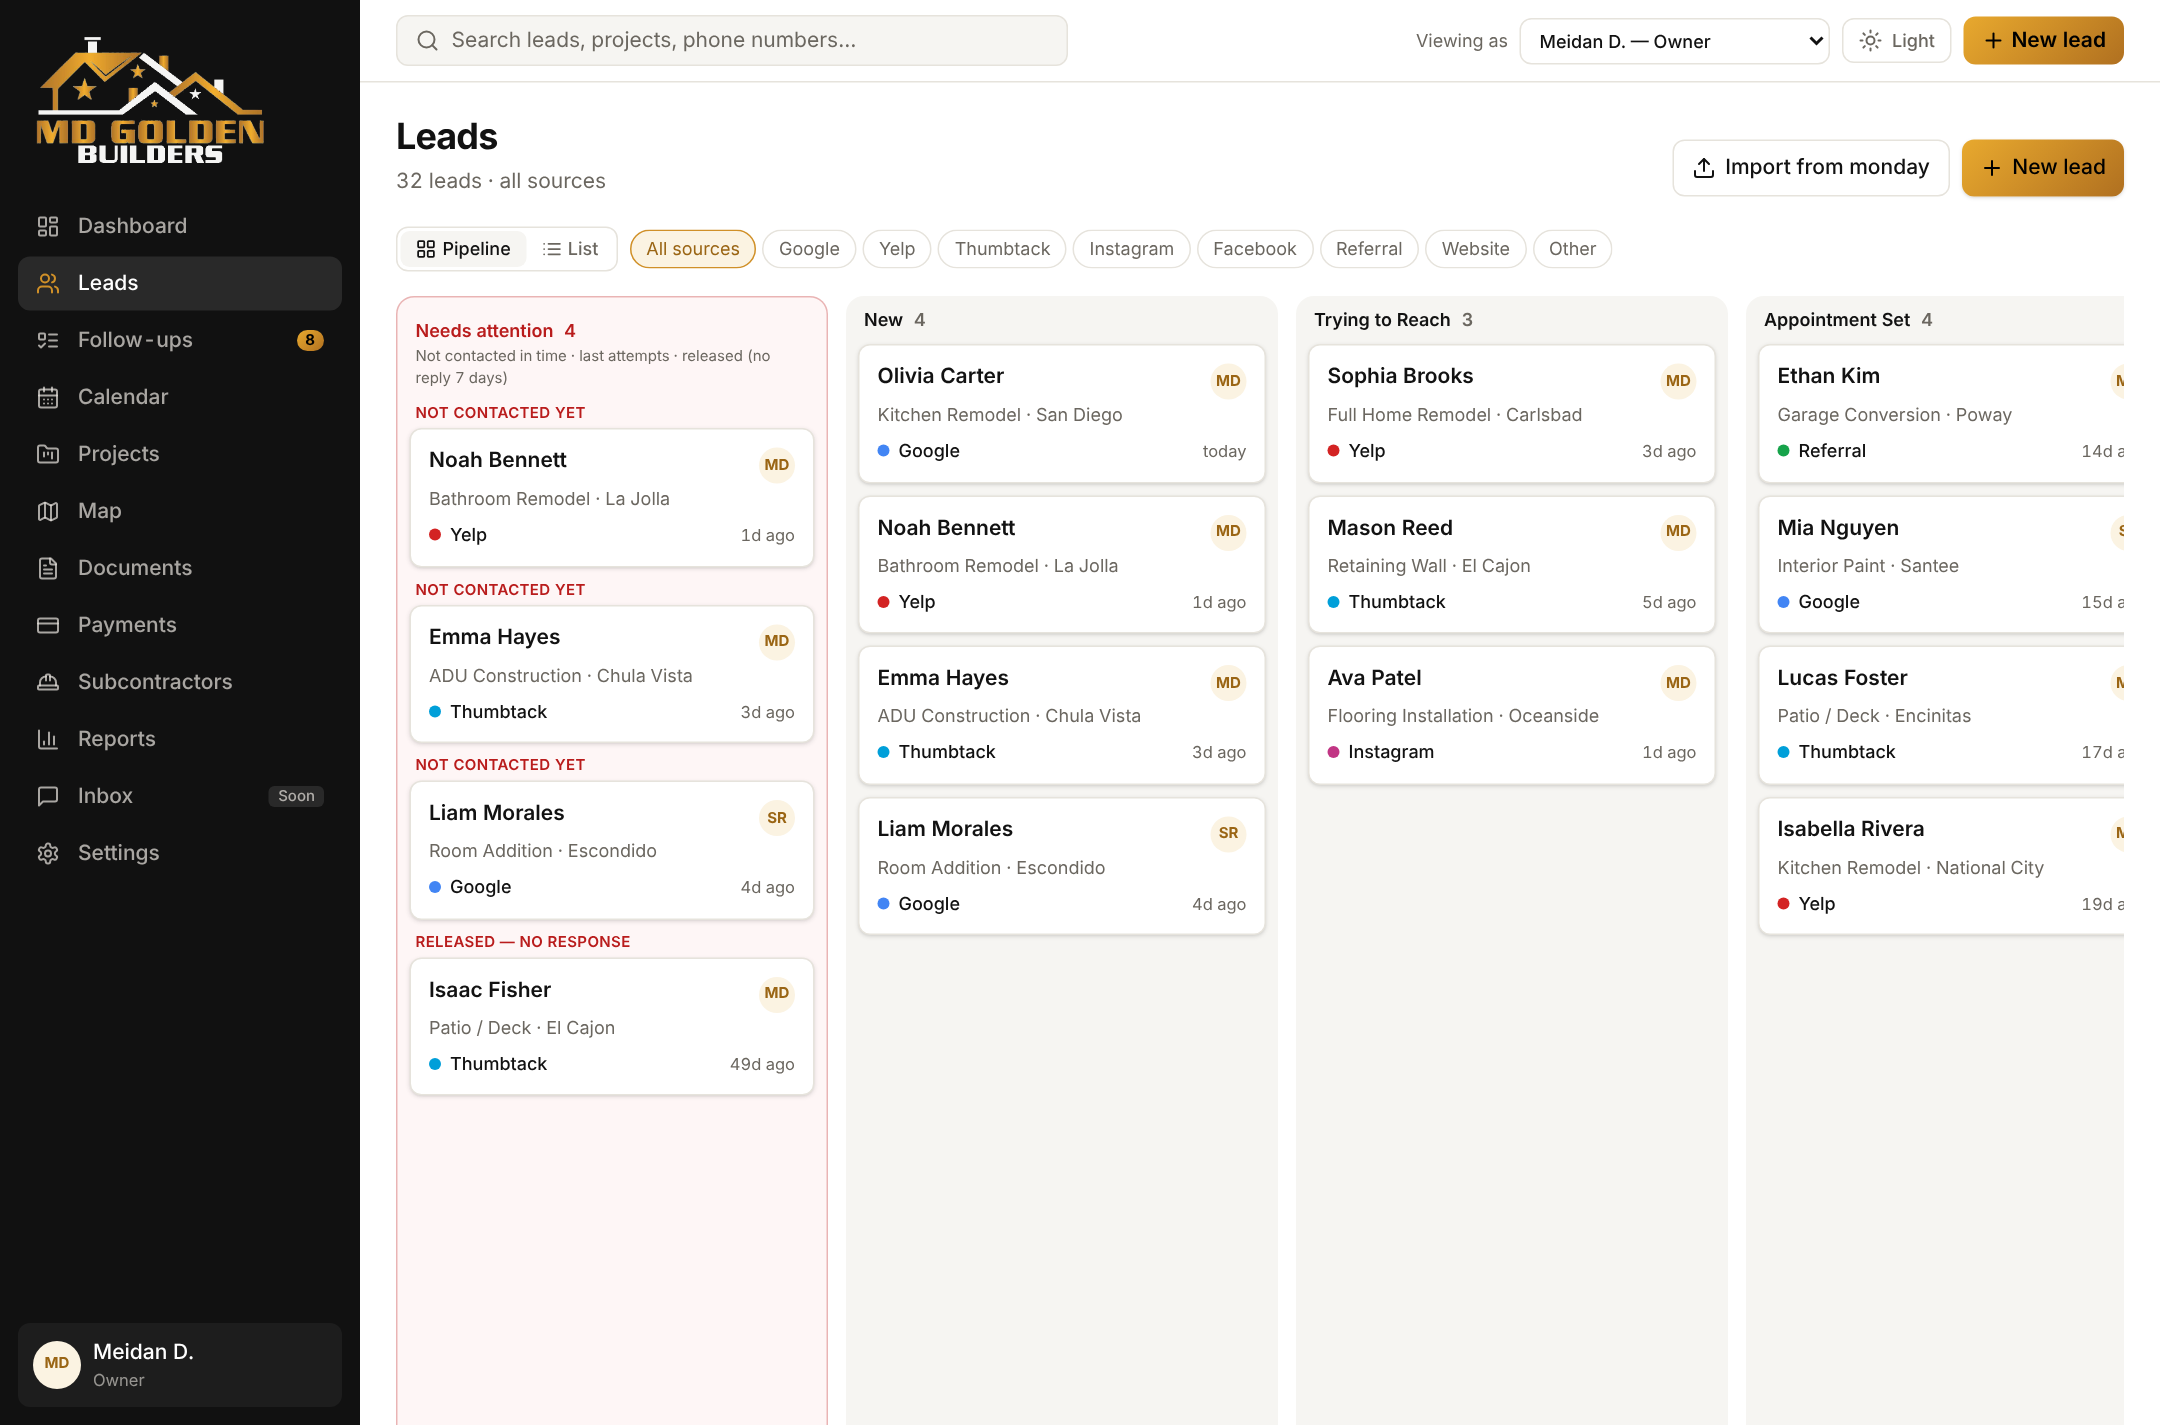
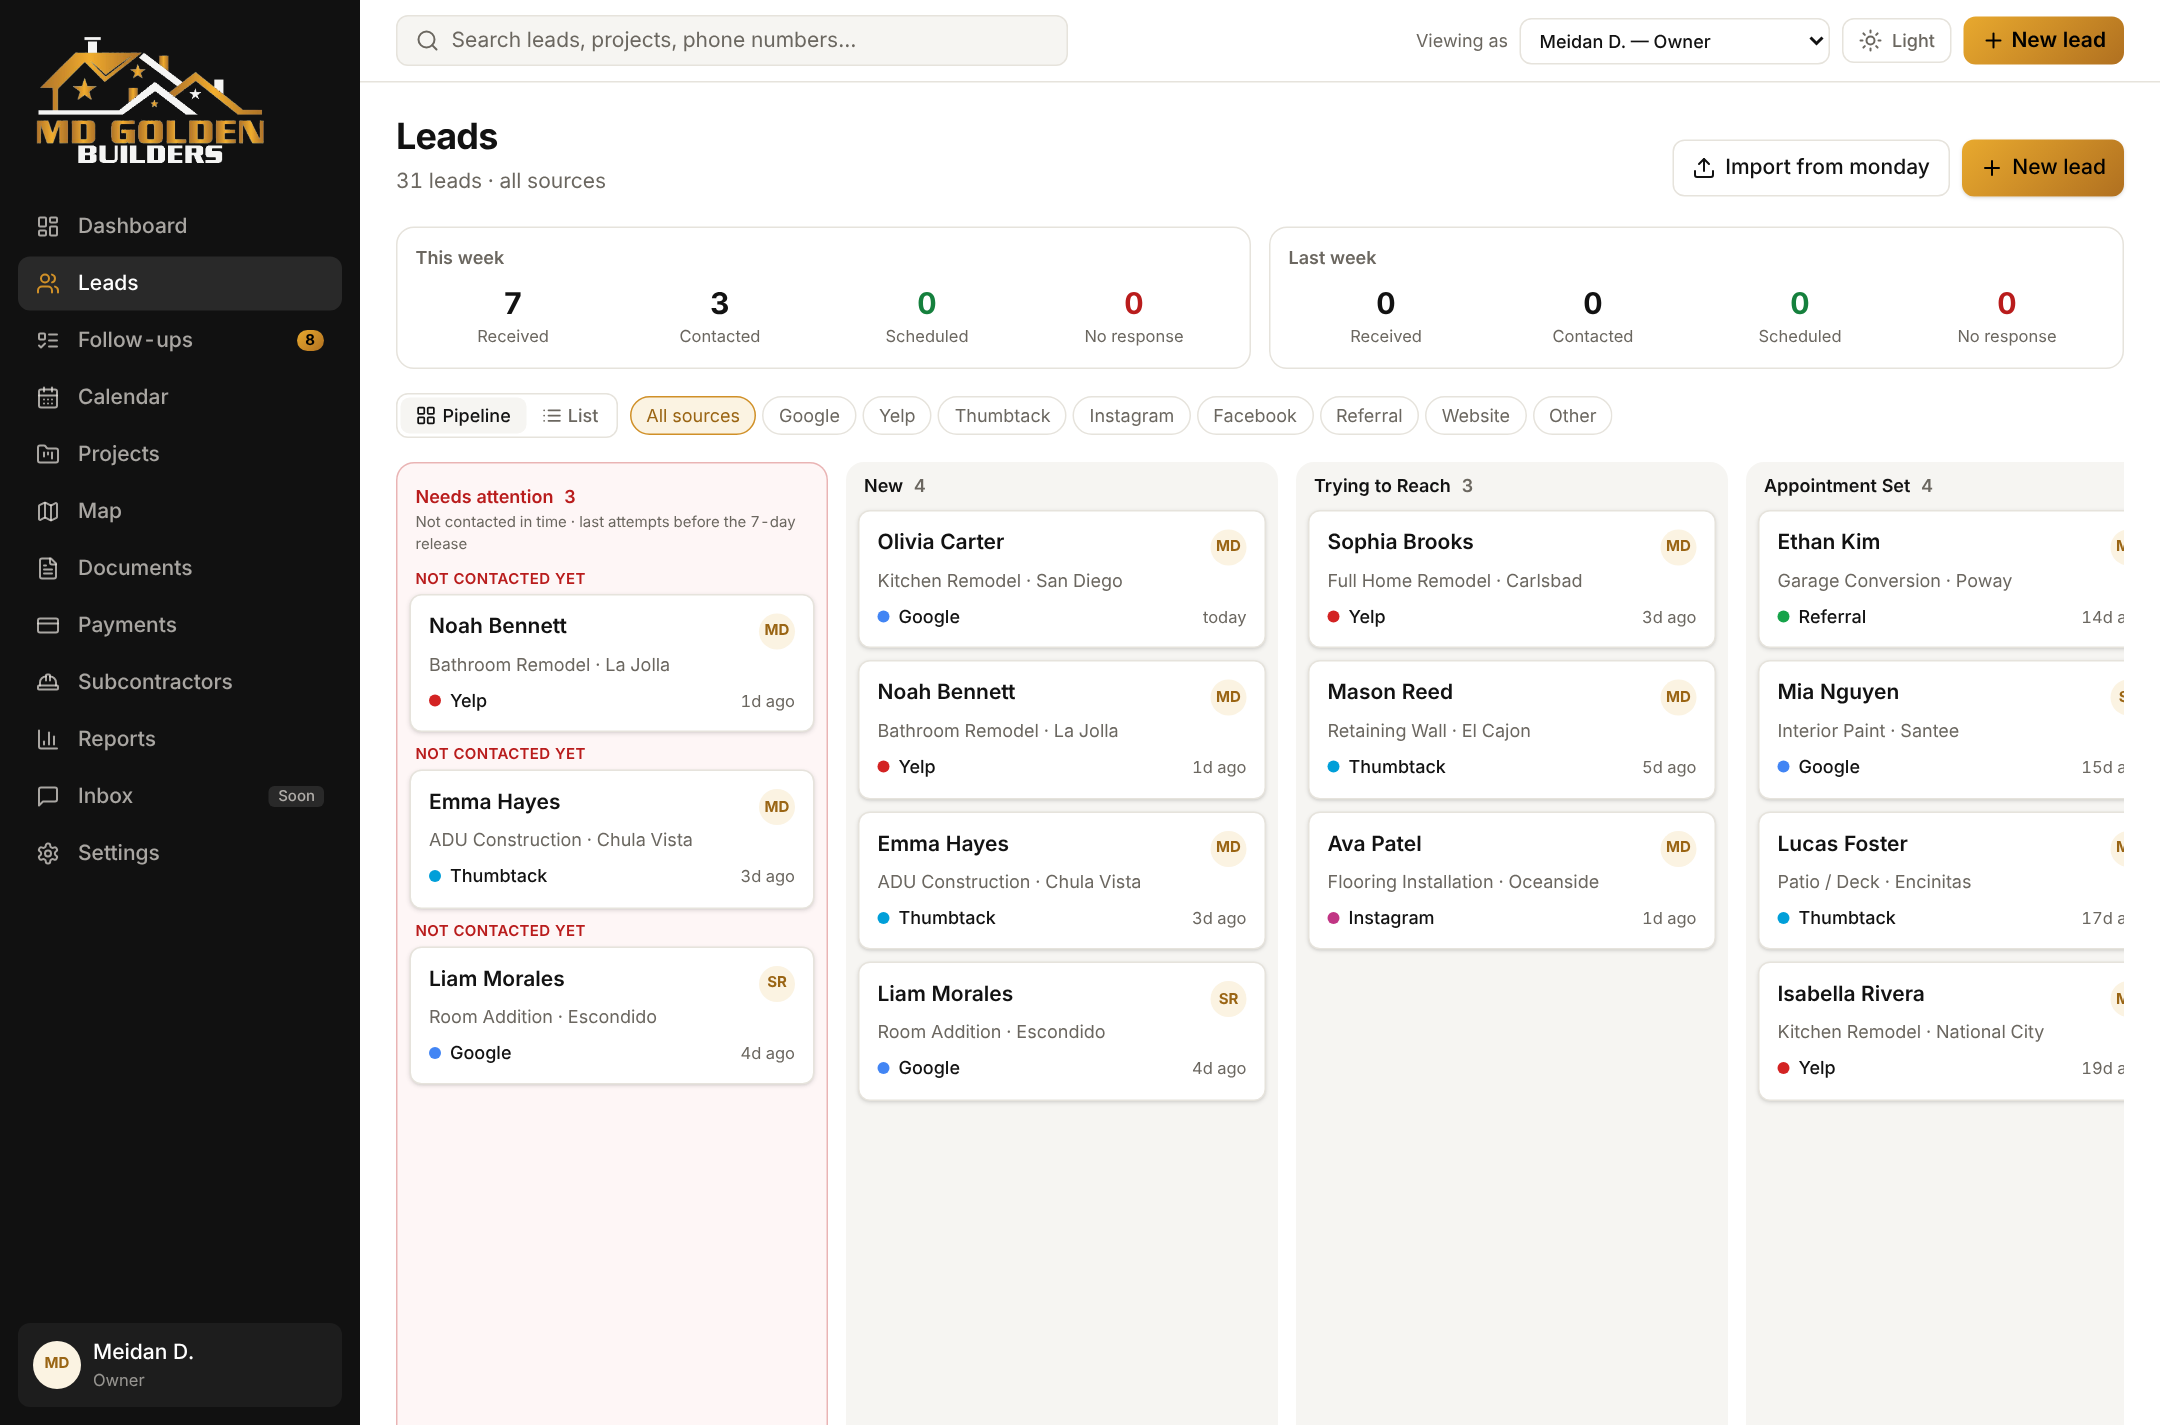
Weekly lead tracking; released no-response leads leave all working lists
Claude-Session: https://claude.ai/code/session_01FWP9vEZ3MdPGUBuhGCAjT9

diff --git a/src/app/(app)/leads/page.tsx b/src/app/(app)/leads/page.tsx
@@ -13,7 +13,9 @@ export default async function LeadsPage({ searchParams }: { searchParams: Promis
   const view = sp.view === "list" ? "list" : "board";
   const user = await currentUser();
   const showMoney = canSeeMoney(user);
-  let leads = await getLeads();
+  const allLeads = await getLeads();
+  // Released leads (no answer for a week) leave every working list — they only live in reports.
+  let leads = sp.stage ? allLeads : allLeads.filter((l) => l.stage !== "No Response");
   if (sp.source) leads = leads.filter((l) => l.source === sp.source);
   if (sp.stage) leads = leads.filter((l) => l.stage === sp.stage);
 
@@ -36,6 +38,8 @@ export default async function LeadsPage({ searchParams }: { searchParams: Promis
           </>
         }
       />
+
+      <WeekSummary leads={allLeads} />
 
       <div className="mb-4 flex flex-wrap items-center gap-2">
         <div className="inline-flex rounded-lg border border-border bg-card p-0.5">
@@ -147,24 +151,53 @@ function Table({ leads, showMoney, stage, q }: { leads: Lead[]; showMoney: boole
 /** Leads that need a human decision: not contacted in time, or released after 7 days of silence. */
 function NeedsAttention({ leads, showMoney }: { leads: Lead[]; showMoney: boolean }) {
   const items = leads.filter(
-    (l) => l.stage === "No Response" || (l.stage === "New" && -daysFrom(l.createdAt, TODAY) >= 1) || (l.stage === "Trying to Reach" && (l.attempts ?? 0) >= 4),
+    (l) => (l.stage === "New" && -daysFrom(l.createdAt, TODAY) >= 1) || (l.stage === "Trying to Reach" && (l.attempts ?? 0) >= 4),
   );
   return (
     <div className="flex w-72 shrink-0 flex-col rounded-xl border border-bad/30 bg-bad-soft/40 p-2">
       <div className="mb-2 px-1">
         <span className="text-xs font-semibold text-bad">Needs attention <span className="ml-1">{items.length}</span></span>
-        <div className="text-[10px] text-muted">Not contacted in time · last attempts · released (no reply 7 days)</div>
+        <div className="text-[10px] text-muted">Not contacted in time · last attempts before the 7-day release</div>
       </div>
       <div className="flex flex-col gap-2">
         {items.map((l) => (
           <div key={l.id}>
             <div className="mb-0.5 px-1 text-[10px] font-semibold uppercase tracking-wide text-bad">
-              {l.stage === "No Response" ? "Released — no response" : l.stage === "New" ? "Not contacted yet" : `Attempt ${l.attempts} of 5`}
+              {l.stage === "New" ? "Not contacted yet" : `Attempt ${l.attempts} of 5 — last chance`}
             </div>
             <LeadCard l={l} showMoney={showMoney} />
           </div>
         ))}
       </div>
+    </div>
+  );
+}
+
+/** This week's leads at a glance: lead tracking runs week by week. */
+function WeekSummary({ leads }: { leads: Lead[] }) {
+  const weekAgo = (n: number) => leads.filter((l) => { const d = -daysFrom(l.createdAt, TODAY); return d >= n * 7 && d < (n + 1) * 7; });
+  const weeks = [0, 1].map((n) => {
+    const ls = weekAgo(n);
+    return {
+      label: n === 0 ? "This week" : "Last week",
+      received: ls.length,
+      contacted: ls.filter((l) => l.stage !== "New").length,
+      scheduled: ls.filter((l) => !["New", "Trying to Reach", "No Response", "Not a Fit"].includes(l.stage)).length,
+      released: ls.filter((l) => l.stage === "No Response").length,
+    };
+  });
+  return (
+    <div className="mb-4 grid gap-3 md:grid-cols-2">
+      {weeks.map((w) => (
+        <div key={w.label} className="rounded-xl border border-border bg-card p-3">
+          <div className="mb-2 text-xs font-semibold text-muted">{w.label}</div>
+          <div className="grid grid-cols-4 gap-2 text-center">
+            {[["Received", w.received, ""], ["Contacted", w.contacted, ""], ["Scheduled", w.scheduled, "text-ok"], ["No response", w.released, "text-bad"]].map(([k, v, c]) => (
+              <div key={k as string}><div className={`text-xl font-bold ${c}`}>{v}</div><div className="text-[11px] text-muted">{k}</div></div>
+            ))}
+          </div>
+        </div>
+      ))}
     </div>
   );
 }

diff --git a/src/components/lead-parts.tsx b/src/components/lead-parts.tsx
@@ -14,19 +14,9 @@ export function LeadOutcome({ lead }: { lead: Lead }) {
 
   if (lead.stage === "No Response") {
     return (
-      <Card className="border-bad/40 p-4">
-        <div className="flex items-center justify-between gap-2">
-          <div>
-            <div className="text-sm font-semibold">No response after {RELEASE_AFTER_DAYS} days · {MAX_ATTEMPTS} attempts</div>
-            <div className="text-xs text-muted">Released from the active list — still counted as a received {lead.source} lead. If they reply, it comes back automatically.</div>
-          </div>
-          <Badge tone="bad">Needs a decision</Badge>
-        </div>
-        <div className="mt-3 flex flex-wrap gap-2">
-          <button className="rounded-lg border border-border px-3 py-1.5 text-xs font-medium">One last try (text)</button>
-          <button className="rounded-lg border border-border px-3 py-1.5 text-xs font-medium">Archive</button>
-          <button className="rounded-lg border border-border px-3 py-1.5 text-xs font-medium">Mark spam → LSA refund</button>
-        </div>
+      <Card className="p-4">
+        <div className="text-sm font-semibold">Released — no answer for {RELEASE_AFTER_DAYS} days ({MAX_ATTEMPTS} attempts)</div>
+        <div className="text-xs text-muted">Removed from all working lists so nobody keeps chasing it. Still counted as a received {lead.source} lead in reports. If the customer replies, it comes back automatically.</div>
       </Card>
     );
   }

diff --git a/docs/MASTER_PROMPT.md b/docs/MASTER_PROMPT.md
@@ -553,12 +553,13 @@ owner can switch a type to "send automatically" later. Every action logged and u
 - Stage "Trying to Reach" with an attempt tracker: Day 0 call+text → Day 1 → Day 2 → Day 4 →
   Day 7 (max 5 attempts). After every attempt one tap: **Scheduled · Still trying ·
   Not a fit · Spam/wrong #**.
-- **No reply in 7 days → auto-release to "No Response"**: off the active board, still
-  counted as a received lead for that source, shown in **Needs attention** for a final
-  decision (one last text / archive / mark spam). If the customer replies later it
-  reactivates automatically.
-- Board starts with a **Needs attention** column: not contacted in time, last attempts,
-  released.
+- **No reply in 7 days → auto-release to "No Response" and REMOVED from every working list**
+  (board, Needs attention, follow-ups) — no load on the team. Still counted as a received
+  lead for that source in reports; reactivates automatically if the customer replies.
+- **Leads are tracked week by week**: weekly summary (received · contacted · scheduled ·
+  no response) for this week and last week at the top of Leads.
+- Board starts with a **Needs attention** column: not contacted in time, and last attempts
+  before the 7-day release.
 - Reports: speed-to-lead, contact rate, schedule rate per source.
 
 **Projects map** (`/map`): San Diego County, Chula Vista → Fallbrook, coast → Ramona/Julian.
